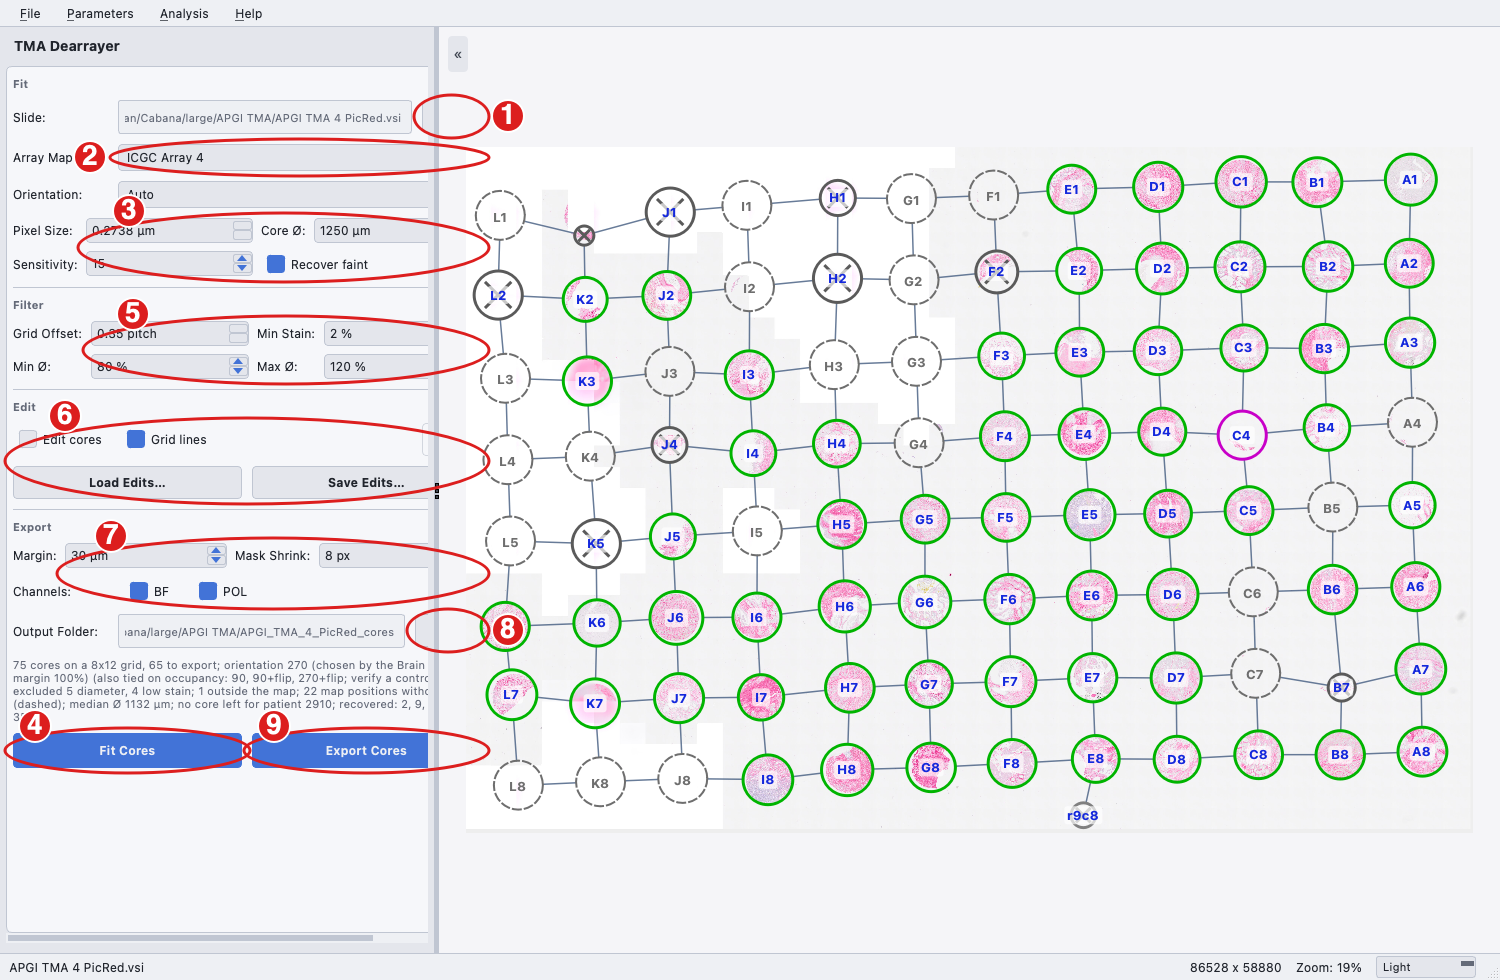
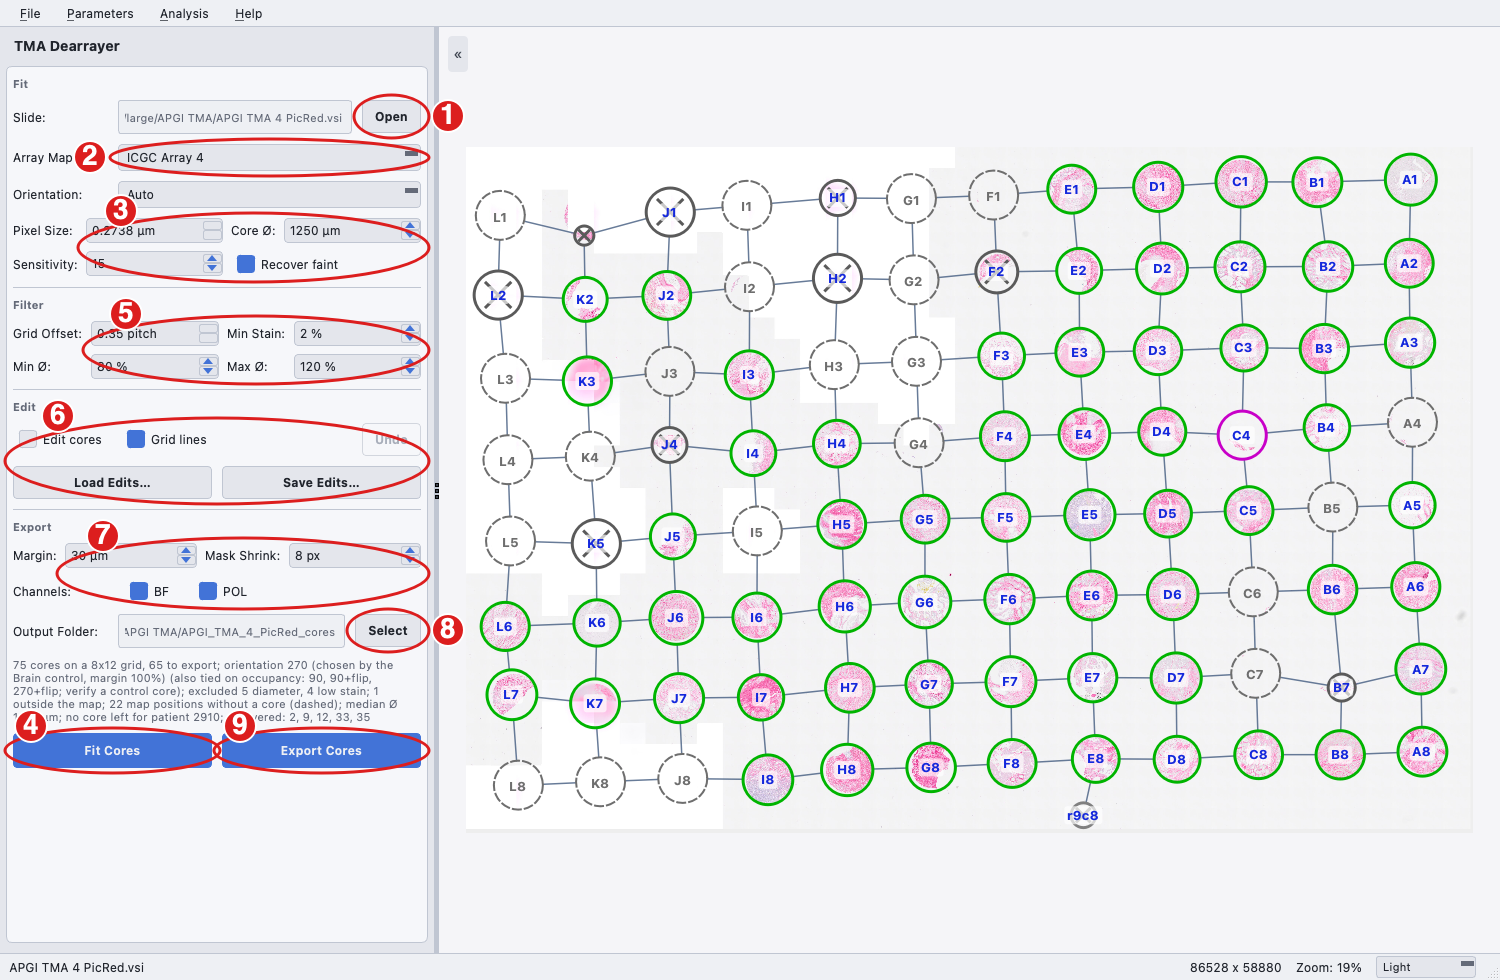
Keep the side panel page within the panel width; confirm before quitting
- PageStack used its page's preferred size as the minimum in both
  directions, so the long TMA status line after Fit Cores widened the page
  past the panel and hid its right edge (regression in 0.3.6). The minimum
  width is now the page's own minimum and the minimum height what the page
  needs at its current width, so the line wraps and short screens still
  scroll. Refresh the TMA screenshot taken with the clipped panel.
- Closing the window asks Confirm or Cancel, listing running jobs and TMA
  hand edits not yet exported or saved. Tests and the screenshot script
  switch the confirmation off.

diff --git a/cabana/cabana_gui.py b/cabana/cabana_gui.py
@@ -29,13 +29,16 @@ from . import __version__
 
 
 class PageStack(QStackedWidget):
-    """Stacked widget sized by its current page, not its tallest one, and never
-    smaller than that page's natural size: inside a scroll area a short page
-    then shows no empty scroll range and a tall one scrolls instead of being
-    squeezed."""
+    """Stacked widget sized by its current page, not its tallest one. Inside a
+    scroll area a short page then shows no empty scroll range, and a tall one
+    scrolls instead of being squeezed: the minimum height is the height the
+    page needs at its current width (wrapped labels included). The minimum
+    width is the page's own minimum, so a long wrapped label (such as the TMA
+    status line) wraps to the panel instead of widening the page past it."""
 
     def __init__(self, parent=None):
         super().__init__(parent)
+        self._last_width = -1
         self.currentChanged.connect(lambda _i: self.updateGeometry())
 
     def sizeHint(self):
@@ -44,7 +47,18 @@ class PageStack(QStackedWidget):
 
     def minimumSizeHint(self):
         page = self.currentWidget()
-        return page.sizeHint() if page is not None else super().minimumSizeHint()
+        if page is None:
+            return super().minimumSizeHint()
+        height = page.sizeHint().height()
+        if page.hasHeightForWidth() and self.width() > 0:
+            height = page.heightForWidth(self.width())
+        return QSize(page.minimumSizeHint().width(), max(height, page.minimumSizeHint().height()))
+
+    def resizeEvent(self, event):
+        super().resizeEvent(event)
+        if event.size().width() != self._last_width:       # wrapped labels change height with width
+            self._last_width = event.size().width()
+            self.updateGeometry()
 
 
 class MainWindow(QMainWindow):
@@ -418,6 +432,39 @@ class MainWindow(QMainWindow):
 
         layout.addStretch()
         self.start_tab.setLayout(layout)
+
+    confirm_on_close = True     # tests and scripts switch the quit confirmation off
+
+    def closeEvent(self, event):
+        """Ask before quitting, so a stray click on the close button or Cmd/Ctrl+Q
+        does not end the session; the question names any work that would be lost."""
+        if not self.confirm_on_close or self._confirm_quit():
+            event.accept()
+        else:
+            event.ignore()
+
+    def _work_at_risk(self):
+        """Plain-language list of running jobs and unsaved edits."""
+        items = []
+        running = [(getattr(self, "batch_worker", None), "a batch run"),
+                   (getattr(self, "tma_worker", None), "a TMA fit or export"),
+                   (getattr(self, "segmentation_worker", None), "segmentation"),
+                   (getattr(self, "detection_worker", None), "fibre detection"),
+                   (getattr(self, "gap_analysis_worker", None), "gap analysis")]
+        for worker, label in running:
+            if worker is not None and worker.isRunning():
+                items.append(f"{label} is still running")
+        if getattr(self, "tma_pre", None) is not None and getattr(self, "_tma_unsaved", False):
+            items.append("hand edits of the TMA cores have not been exported or saved")
+        return items
+
+    def _confirm_quit(self):
+        risks = self._work_at_risk()
+        if risks:
+            info = "If you quit now:\n- " + "\n- ".join(risks)
+        else:
+            info = "Any results not yet saved or exported will be lost."
+        return self._ask_tma("Quit Cabana", "Quit Cabana?", info, "Confirm", "Cancel")
 
     MAP_LOAD_ITEM = "__load_map__"
 
@@ -1159,6 +1206,7 @@ class MainWindow(QMainWindow):
         self.tma_pre = None
         self.tma_reader = None
         self.tma_worker = None
+        self._tma_unsaved = False   # hand edits changed since the last export, save or load
         self.tma_overlay = None
         self._tma_shown_pre = None
         self._tma_editor = None     # created on first use: the image panel does not exist yet
@@ -1203,6 +1251,7 @@ class MainWindow(QMainWindow):
     def _tma_edited(self, full):
         """Editor callback: repaint, and after a completed edit refresh the summary."""
         if full:
+            self._tma_unsaved = True
             # setting a map position (or undoing one) can change the orientation
             self._sync_tma_orientation_combo()
             self._show_tma_result(preserve_view=True)
@@ -1221,6 +1270,7 @@ class MainWindow(QMainWindow):
             QMessageBox.warning(self, "Load Edits", f"Could not load {path}:\n{e}")
             return
         self.tma_editor.selected = None
+        self._tma_unsaved = False
         # the saved orientation is reapplied by load_edits
         self._sync_tma_orientation_combo()
         self._show_tma_result(preserve_view=True)
@@ -1316,6 +1366,7 @@ class MainWindow(QMainWindow):
         except Exception as e:
             QMessageBox.warning(self, "Save Edits", f"Could not save {path}:\n{e}")
             return
+        self._tma_unsaved = False
         self.tma_status_label.setText(f"Saved {len(pre.cores)} cores ({pre.manual_count()} hand-edited"
                                       + (", map position set by hand" if pre.map_anchor else "")
                                       + f") to {path}. " + self.tma_status_label.text())
@@ -1488,6 +1539,7 @@ class MainWindow(QMainWindow):
 
     def handle_tma_fit_complete(self, pre):
         self.tma_pre = pre
+        self._tma_unsaved = False
         self.tma_reader = pre.reader
         self.tma_editor.reset()
         self.tma_fit_btn.setText("Fit Cores")
@@ -1632,6 +1684,7 @@ class MainWindow(QMainWindow):
             self.tma_worker.cancel()
 
     def handle_tma_export_complete(self, out_dir):
+        self._tma_unsaved = False           # the export wrote cores_edits.json
         self.tma_export_btn.setText("Export Cores")
         self._tma_set_busy(False)
         n = len(self.tma_pre.exportable_cores()) if self.tma_pre else 0  # excludes filtered cores

diff --git a/tests/test_tma_editor.py b/tests/test_tma_editor.py
@@ -523,3 +523,49 @@ class TestPanelScrolls:
         settle(app, 200)
         assert win.pages_scroll.verticalScrollBar().maximum() == 0
         win.close()
+
+
+class TestLongStatusLine:
+    def test_long_status_wraps_instead_of_widening_the_page(self, fitted_gui, app):
+        win, _ = fitted_gui
+        win.show_page(win.pages.indexOf(win.tma_tab))
+        win.tma_status_label.setText("A very long fit summary that keeps going " * 12)
+        settle(app, 200)
+        assert win.pages_scroll.horizontalScrollBar().maximum() == 0     # nothing hidden on the right
+        assert win.tma_tab.width() <= win.pages_scroll.viewport().width()
+        lab = win.tma_status_label
+        assert lab.height() >= lab.heightForWidth(lab.width())           # every wrapped line shown
+
+
+class TestQuitConfirmation:
+    def test_cancel_keeps_the_window_open(self, fitted_gui, app, monkeypatch):
+        win, _ = fitted_gui
+        win.confirm_on_close = True
+        asked = []
+        monkeypatch.setattr(win, "_ask_tma", lambda *a: asked.append(a) or False)
+        win.close()
+        settle(app)
+        assert win.isVisible() and len(asked) == 1
+        title, text, info, yes, no = asked[0]
+        assert text == "Quit Cabana?" and (yes, no) == ("Confirm", "Cancel")
+        monkeypatch.setattr(win, "_ask_tma", lambda *a: True)
+        win.close()
+        settle(app)
+        assert not win.isVisible()
+
+    def test_unsaved_edits_are_named(self, fitted_gui, app, monkeypatch, tmp_path):
+        from PyQt5.QtWidgets import QFileDialog
+        win, pre = fitted_gui
+        assert win._work_at_risk() == []
+        core = pre.cores[0]
+        pre.move_core(core, core.cx + 10, core.cy)
+        win._tma_edited(True)                                            # what the editor calls after an edit
+        assert any("hand edits" in r for r in win._work_at_risk())
+        path = str(tmp_path / "e.json")
+        monkeypatch.setattr(QFileDialog, "getSaveFileName", lambda *a, **k: (path, ""))
+        win.save_tma_edits()
+        assert win._work_at_risk() == []
+        win._tma_edited(True)
+        info = []
+        monkeypatch.setattr(win, "_ask_tma", lambda *a: info.append(a[2]) or True)
+        assert win._confirm_quit() and "have not been exported or saved" in info[0]

diff --git a/tests/conftest.py b/tests/conftest.py
@@ -15,3 +15,16 @@ def pytest_configure(config):
         log_dir = os.path.join(tempfile.gettempdir(), "cabana_test_logs")
         os.makedirs(log_dir, exist_ok=True)
         Log.init_log_path(log_dir)
+
+
+import pytest  # noqa: E402
+
+
+@pytest.fixture(autouse=True)
+def _no_quit_confirmation(monkeypatch):
+    """Closing a MainWindow in a test must not open the quit confirmation."""
+    try:
+        from cabana.cabana_gui import MainWindow
+    except Exception:          # PyQt5 missing: no GUI tests run anyway
+        return
+    monkeypatch.setattr(MainWindow, "confirm_on_close", False, raising=False)

diff --git a/docs/make_screenshots.py b/docs/make_screenshots.py
@@ -121,6 +121,7 @@ def main(argv):
     app = QApplication.instance() or QApplication([])
     from cabana.cabana_gui import MainWindow
     win = MainWindow()          # maximises itself to the 800x600 offscreen screen
+    win.confirm_on_close = False
     win.showNormal()
     win.resize(1500, 980)
     if win.theme_combo.currentText() != "Light":

diff --git a/docs/source/workflow.md b/docs/source/workflow.md
@@ -8,7 +8,7 @@ Once the Cabana GUI is launched, you will see a window split horizontally: the c
 
 ![Start page](media/start.png)
 
-1. **Menu bar.** All commands live here: **File** (open or reload an image, open a TMA slide, quit), **Parameters** (import, export, restore defaults), **Analysis** (choose which page the control panel shows: **TMA**, **Segmentation**, **Fibre Detection**, **Gap Analysis** or **Batch Run**, shortcuts Ctrl/Cmd+1 to 5) and **Help** (about, documentation, issue tracker, version, licence).
+1. **Menu bar.** All commands live here: **File** (open or reload an image, open a TMA slide, generate a TMA map template, quit; quitting asks for confirmation and names any running job or unsaved TMA edits), **Parameters** (import, export, restore defaults), **Analysis** (choose which page the control panel shows: **TMA**, **Segmentation**, **Fibre Detection**, **Gap Analysis** or **Batch Run**, shortcuts Ctrl/Cmd+1 to 5) and **Help** (about, documentation, issue tracker, version, licence).
 2. **Open TMA Slide** opens a whole-slide scan on the TMA Dearrayer page.
 3. **Open Image** loads a single image to tune parameters on; the panel switches to Segmentation automatically. You can also drag an image onto the viewer.
 4. **Import Parameters** loads a saved `Parameters.yml` into the controls.

diff --git a/docs/source/changelog.md b/docs/source/changelog.md
@@ -1,5 +1,15 @@
 # Changelog
 
+## Unreleased
+
+### GUI
+
+- After fitting TMA cores, the long status line no longer widens the side
+  panel's page past the panel, which hid its right edge behind the image
+  panel (a regression in 0.3.6); the line wraps to the panel again.
+- Quitting asks for confirmation (Confirm or Cancel), naming any running job
+  and TMA hand edits not yet exported or saved.
+
 ## 0.3.6
 
 ### TMA Dearrayer
